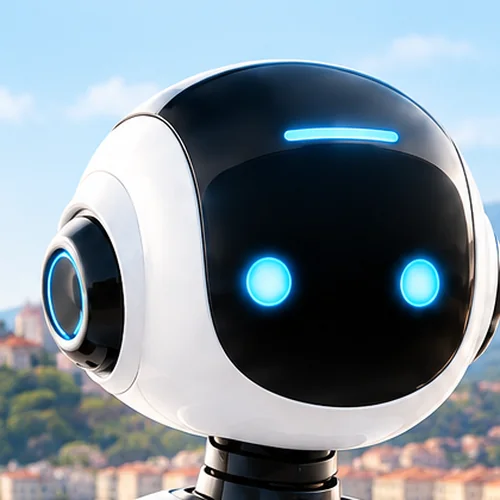
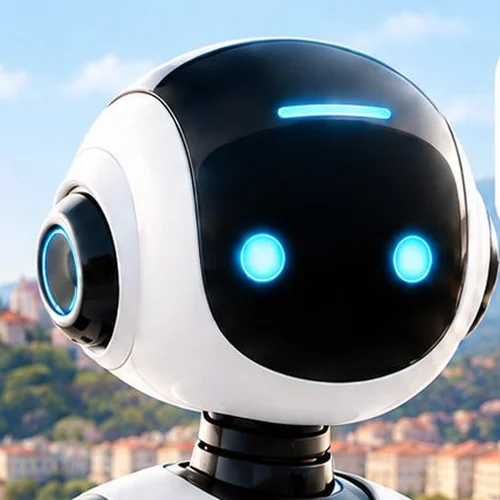
Add files via upload

diff --git a/index.html b/index.html
@@ -21,7 +21,7 @@
 <meta name="theme-color" content="#f3f2f2">
 <link rel="icon" href="favicon.svg" type="image/svg+xml">
 <script type="application/ld+json">{"@context":"https://schema.org","@graph":[{"@type":"WebSite","@id":"https://nice.immo/#site","url":"https://nice.immo/","name":"Nice.immo","inLanguage":"fr","description":"Estimation immobilière à Nice par IA, fondée sur les ventes réelles notariées.","publisher":{"@id":"https://nice.immo/#org"}},{"@type":"Organization","@id":"https://nice.immo/#org","name":"Nice.immo","url":"https://nice.immo/","email":"contact@nice.immo","logo":"https://nice.immo/og-nice.jpg"},{"@type":"WebPage","@id":"https://nice.immo/#page","url":"https://nice.immo/","name":"Estimation immobilière à Nice par IA | Nice.immo","isPartOf":{"@id":"https://nice.immo/#site"},"about":{"@type":"Place","name":"Nice"}}]}</script>
-<link rel="preload" as="image" href="robot-nice-1024.webp" media="(min-width:821px)">
+<link rel="preload" as="image" href="robot-nice-1067.webp" media="(min-width:821px)">
 <link rel="preconnect" href="https://fonts.googleapis.com">
 <link rel="preconnect" href="https://fonts.gstatic.com" crossorigin>
 <link href="https://fonts.googleapis.com/css2?family=Cormorant+Garamond:ital,wght@0,400;0,500;0,600;1,400;1,500&family=Lora:ital,wght@0,400;0,500;1,400&display=swap" rel="stylesheet">
@@ -66,13 +66,13 @@ main{flex:1;display:flex;flex-direction:column;padding:22px 0 0;min-height:0}
 .stage{flex:1;display:flex;flex-direction:column;min-height:0;max-width:none;padding-left:0}
 .intro{grid-column:2;text-align:center;max-width:1100px;margin:0 auto;padding:0 var(--pad)}
 .intro h1{font-size:52px;font-weight:500;margin:0 0 16px}
-.intro h1 em{font-style:italic;color:#1DA851}
+.intro h1 em{font-style:italic;font-weight:700;color:#1DA851}
 .intro p{font-size:19px;line-height:1.6;color:var(--color-neutral-700);max-width:860px;margin:0 auto 24px}
 
 /* Scène : portrait + dialogue */
 /* la scène prend la hauteur restante de la fenêtre (élastique) : rien ne dépasse, la conversation défile dans la carte, le portrait ne bouge pas quand on parle ; sous 380 px de place, la page défile */
 .scene{display:grid;grid-template-columns:auto minmax(0,1fr);grid-template-rows:auto minmax(0,1fr);gap:0 40px;min-height:380px} /* hauteur posée par ajusteScene() */
-.plate{grid-column:1;grid-row:1/3;height:100%;aspect-ratio:1024/1536;min-height:0;max-width:34vw}
+.plate{grid-column:1;grid-row:1/3;height:100%;aspect-ratio:1067/1600;min-height:0;max-width:34vw}
 .plate img{width:100%;height:100%;object-fit:cover;object-position:center top;display:block}
 .card{grid-column:2;border:1px solid var(--color-divider);border-radius:var(--radius-md);background:var(--color-surface);box-shadow:var(--shadow-sm);padding:28px 30px 20px;display:flex;flex-direction:column;min-height:0;overflow:hidden;position:relative}
 .card.glisse{outline:2px dashed var(--color-accent);outline-offset:-6px;background:var(--color-accent-100)}
@@ -241,7 +241,7 @@ footer.bottom .ia b{font-family:var(--font-heading);font-size:15px;font-weight:6
 <main>
   <div class="wrap stage">
     <section class="scene" aria-label="Estimation de votre bien">
-      <div class="plate"><img src="robot-nice-1024.webp" width="1024" height="1536" alt="Assistant robot d’estimation immobilière devant la baie des Anges à Nice" fetchpriority="high"></div>
+      <div class="plate"><img src="robot-nice-1067.webp" width="1067" height="1600" alt="Assistant robot d’estimation immobilière devant la baie des Anges à Nice" fetchpriority="high"></div>
       <section class="intro" id="estimer">
       <h1>Vous achetez, vendez ou investissez à Nice ?<br>Estimez un bien avec notre <em>IA spécialisée.</em></h1>
       <p>Vous obtenez une estimation fondée sur 22 118 ventes réelles à Nice depuis 2023.</p>
